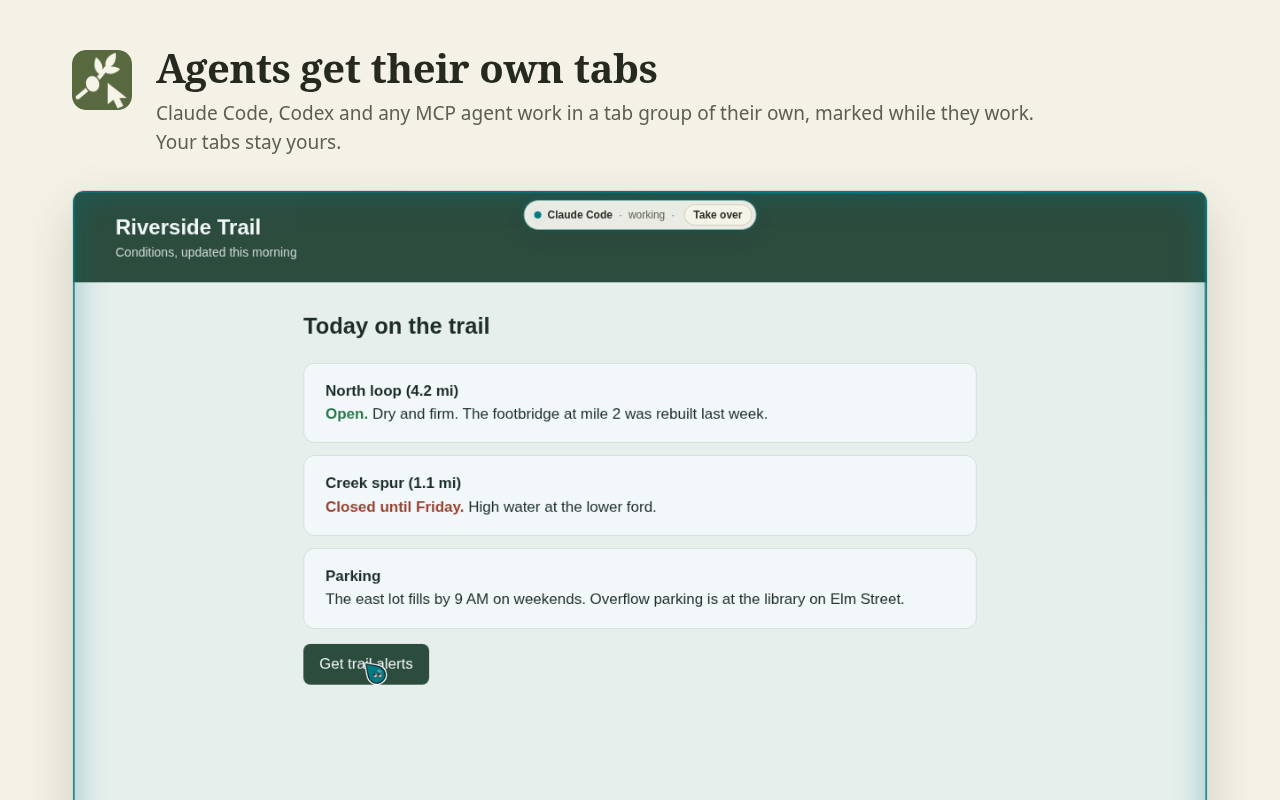
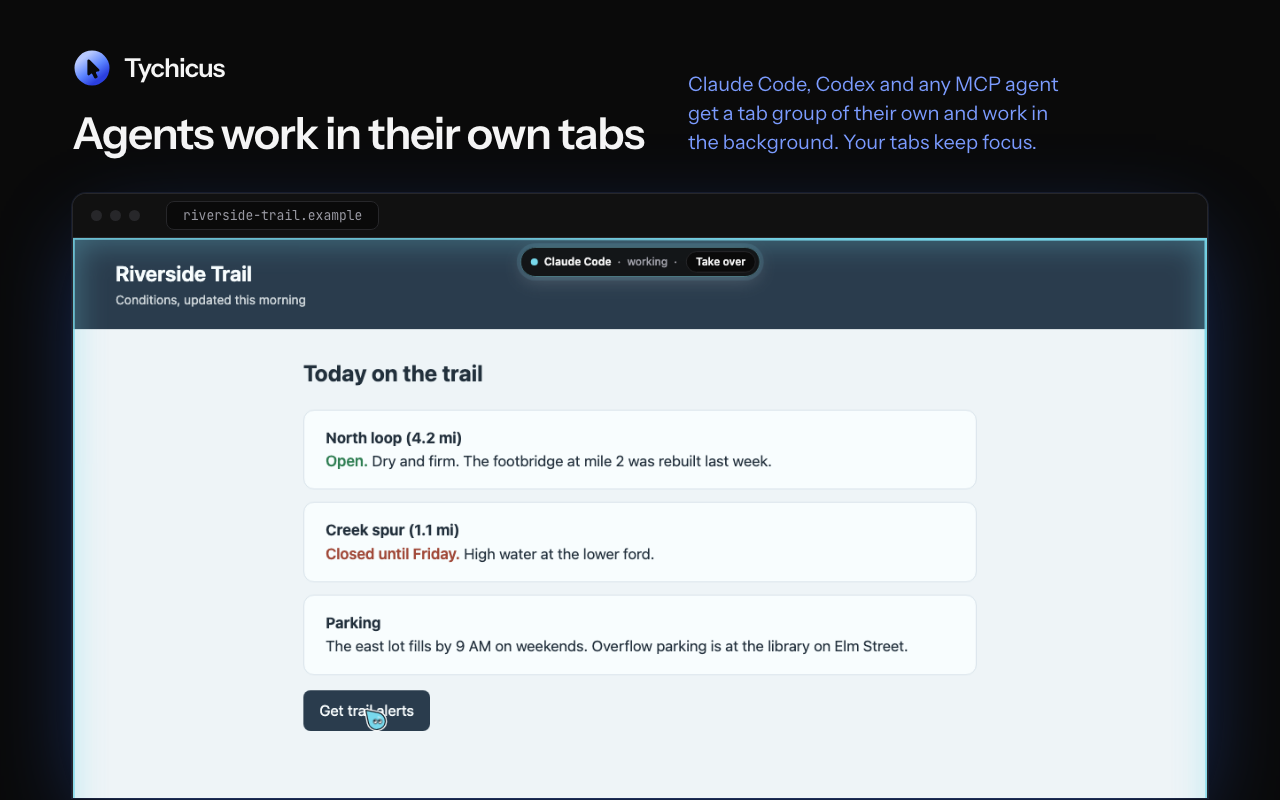
Store: listing and images in the new brand, every screenshot unblocked
scripts/store-shots.mjs draws the store images in media/brand/hero.png's style:
the night ground, the generated icon.svg and mark-blue.svg, Instrument Sans and
JetBrains Mono, and PALETTE from media/brand/build.mjs. The side panel is
captured in its dark scheme on any computer. The page the agent reads is served
by the script as riverside-trail.example through Chromium's
--host-resolver-rules, so no 127.0.0.1 address shows in a tool line, and it
uses a neutral slate instead of green.

All five screenshots render. The welcome and Settings > Agents screens stopped
showing another product name with the rename in #12, so the script's old-name
gate passes them and store/listing.md lists them again. The listing's
description now leads with the agent's own tab group, background tabs without
stolen focus, MCP agents, Local Studio, site permissions, private mode, no
account, no analytics and the AGPL.

startHarness in cli/test/e2e-harness.mjs now passes chromiumArgs to Chromium;
it accepted them and dropped them before.

diff --git a/store/listing.md b/store/listing.md
@@ -43,28 +43,31 @@ Lets AI agents work in your browser, in their own tab group, while you keep work
 **Description:**
 
 ```
-Tychicus lets an AI agent work in your browser while you keep working. The agent gets its own tab group. It opens pages, reads them, clicks, fills in forms and checks its own work there, and your tabs stay yours.
+Tychicus lets an AI agent work in your browser while you keep working. The agent gets a tab group of its own and works there in the background: it opens pages, reads them, clicks, fills in forms and checks its own work, without taking focus from the tab you are using. Your tabs stay yours.
 
-Tychicus comes three ways: a Local Studio plugin, an app you install on its own, and this Chrome extension. The extension works with or without Local Studio.
+What it does well:
 
-Use it two ways:
-
-• Chat in the side panel. With Local Studio on your computer, the panel runs on it by default: your local models, and the plans you signed in to inside Local Studio, with no API key or sign-in in the extension. Without Local Studio, add an API key from Anthropic, OpenAI, Google, OpenRouter and others, or use a free OpenRouter key; with Local Studio, "Use an API key instead" does the same.
-• Connect the coding agent you already use. Claude Code, Codex and any MCP agent can drive your browser through the free Tychicus helper on your computer.
+• Its own tab group. Each agent works in a group of its own tabs, marked while it works, with a pointer that shows what it is doing and a "Take over" button.
+• Background tabs, no stolen focus. The agent acts in its tabs without bringing them to the front, so you can keep typing somewhere else.
+• The agents you already use. Claude Code, Codex, Cursor, OpenCode, pi and any other MCP agent drive your browser through the free Tychicus helper on your computer. With the helper and your own Tailscale or Cloudflare tunnel, claude.ai, ChatGPT and grok.com can use it too.
+• Local models through Local Studio. With Local Studio on your computer, the side panel chats on your local models and the plans you signed in to there, with no API key or sign-in in the extension.
+• Or bring an API key from Anthropic, OpenAI, Google, OpenRouter and others, or use a free OpenRouter key.
 
 You stay in charge:
 
-• The agent can't open a new site until you allow it.
+• The agent can't open a new site until you allow it. Allowed sites are listed in Settings, where you can remove them.
 • It stops and hands the tab to you for sign-ins and captchas.
-• Private mode only sends prompts to models that don't keep them, or to your own machines.
+• Private mode sends prompts only to models that don't keep them, or to your own machines.
 
-Tychicus has no account and no analytics, and it runs no servers of its own. Your chats and settings stay on your computer. Your messages, and what the agent reads, go only to the AI you picked.
+No account, no analytics, and open source under the AGPL-3.0. Tychicus runs no servers of its own. Your chats and settings stay on your computer, and your messages, and what the agent reads, go only to the AI you picked.
+
+Tychicus comes three ways: a Local Studio plugin, an app you install on its own, and this Chrome extension. The extension works with or without Local Studio.
 
 A note on provider terms: using a consumer chat subscription through automation may break that provider's terms of service. Some allow it, some forbid it, and terms change. Tychicus doesn't decide this for you. Read your provider's terms before you connect a subscription; API keys under a developer agreement are the safer route where terms are unclear.
 
 Local Studio chats need macOS or Linux for now.
 
-Free software under the AGPL-3.0. Source: https://github.com/baney75/tychicus
+Source: https://github.com/baney75/tychicus
 Built on 0xSero's agent bridge and Mario Zechner's Sitegeist.
 ```
 
@@ -75,9 +78,8 @@ Built on 0xSero's agent bridge and Mario Zechner's Sitegeist.
 **Images:**
 
 - Icon: `static/icon-128.png`
-- Screenshots, 1280x800, in this order: `store/screenshots/local-studio.png`, `store/screenshots/models.png`,
-  `store/screenshots/agents.png`. `scripts/store-shots.mjs` also draws `welcome.png` and `site-access.png`, but only once
-  those screens in the panel stop showing the old product name; it refuses them until then.
+- Screenshots, 1280x800, in this order: `store/screenshots/welcome.png`, `store/screenshots/agents.png`,
+  `store/screenshots/local-studio.png`, `store/screenshots/models.png`, `store/screenshots/site-access.png`.
 - Small promo tile, 440x280: `store/promo-small.png`
 - Marquee, 1400x560: `store/promo-marquee.png`
 

diff --git a/CHANGELOG.md b/CHANGELOG.md
@@ -117,6 +117,7 @@
 - The floating "Artifacts" pill over the chat is gone. Artifacts open from a header button with a count badge and from their tool cards.
 - The launcher harnesses run (`~/.config/tabkyra/tabkyra`) sets `NODE_COMPILE_CACHE`: a small start-up saving, about 10 ms of 120 on one machine and close to run-to-run noise (`bridge-metrics.mjs --only launcher`).
 - Side panel polish (D25). The header keeps the chat title, Past chats, New chat, More and Settings; Copy chat, Record a skill and the theme are under More (a keyboard menu). Every icon has a tooltip on hover and on keyboard focus; recording shows a red "Recording" pill. The empty chat's starter chips are Summarize this page, Research with sources, Fill a form and Compare tabs. The composer names the model readably with its provider ("DeepSeek V4.1 Flash · OpenRouter"); the full id is the tooltip. Settings has six tabs that wrap instead of scrolling out of sight: Providers (keys and custom providers, with a search box, keyed providers first, Enter to save and "Choose a model" after a save), Skills, Bridge, Privacy (with the CORS proxy), Costs, About (with updates). Past chats focus the search box (Enter opens the top match), rename in place and delete with Undo. Toasts sit below the header in the panel's colors and replace each other instead of stacking. `test/panel-ui.test.mjs`.
+- The Chrome Web Store images and listing now show the new blue Tychicus brand. `scripts/store-shots.mjs` draws every screenshot and promo tile in `media/brand/hero.png`'s style: its night ground, the generated `icon.svg` and `mark-blue.svg`, Instrument Sans and JetBrains Mono, and the palette from `media/brand/build.mjs`. The panel is captured in its dark scheme on any computer, and the page the agent reads is served as `riverside-trail.example` (mapped to loopback with Chromium's `--host-resolver-rules`), so no 127.0.0.1 address shows in a tool line. All five screenshots render now: the welcome and Settings > Agents screens no longer show another product name, so `store/listing.md` lists `welcome.png` and `site-access.png` again and its description leads with the tab group, background tabs, MCP agents, Local Studio, site permissions and private mode. `startHarness` in `cli/test/e2e-harness.mjs` now passes its `chromiumArgs` to Chromium; it took them and dropped them before.
 
 ### Fixed
 - `install --release` now restarts the services still running the old version, and `remote fix` finds them too. A service keeps the program it started with, so after the `release` pointer moved, serve, the Cloudflare tunnel, hub and link kept running the old version and install said nothing (issue #23). Install now reads which version folder each installed Tychicus service's process runs from (launchd's pid and `ps` on macOS, systemd's MainPID and `/proc/<pid>/exe` on Linux, the recorded pid and `Get-Process` on Windows), restarts the ones on another version in order (serve, cloudflared, hub, link) through the same service install setup uses, run by the new version's program so the launcher names it, and reads back that each now runs the release (and that serve answers, when `remote.json` says where). `--no-restart` prints one line per stale service with the command that restarts it, `<release>/tychicus install --restart-services`; a failed restart prints that command and exits 1. `remote fix` (and `--dry-run`) plans a restart of serve or the tunnel when it runs a version other than `release`. A service run from a checkout or npm link is not counted. Tests: the issue 23 cases in `cli/test/release-install.test.mjs` and `cli/test/remote-fix.test.mjs`.
